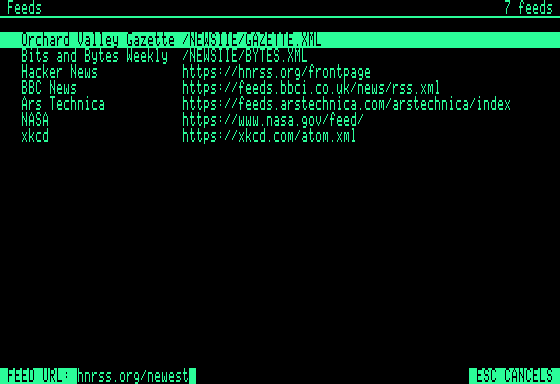
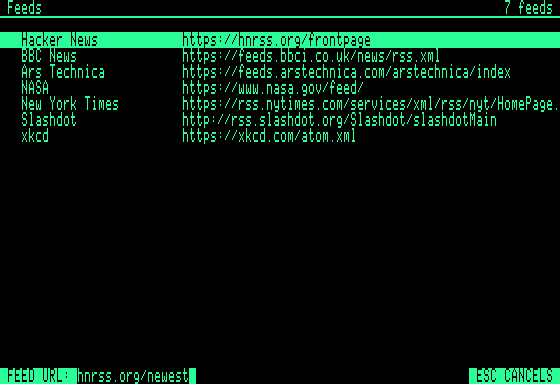
Show the shipped feed list in the manual's pictures
The screenshot disk now starts with the seven feeds the real disk
carries, so Figures 1-1 and 3-x match what a reader sees. For Chapter 2
the script adds the made-up Orchard Valley Gazette with Open-Apple-A,
and the manual says that feed isn't on the disk. The unused Bits and
Bytes Weekly feed is gone.

Changed region(s): [[0.1214, 0.0625, 1.0, 0.3438], [0.0304, 0.0938, 0.2125, 0.3438]]

diff --git a/docs/MANUAL.md b/docs/MANUAL.md
@@ -124,7 +124,9 @@ status bar until you press the next key.
 
 > **By the way:** The pictures in this guide were made on an Apple IIe
 > simulator without a CoGS card, so the address you see in them is just
-> an example. Yours will be different.
+> an example. Yours will be different. To show stories without the
+> Internet, the pictures in Chapter 2 use the *Orchard Valley Gazette*, a
+> made-up feed added to the list for the purpose. It isn't on your disk.
 
 ### Getting Help
 
@@ -156,8 +158,9 @@ take half a minute.
 
 ![Figure 2-1. newsiie fetching a feed](images/fetching.png)
 
-**Figure 2-1.** newsiie at work. This feed is on the disk, so the status
-bar says `READING`; a feed from the Internet says `FETCHING`.
+**Figure 2-1.** newsiie at work. The *Orchard Valley Gazette* was made up
+for this guide and kept on the disk, so the status bar says `READING`; a
+feed from the Internet says `FETCHING`.
 
 > **By the way:** If a feed is taking too long, press ESC. newsiie stops,
 > and you can read whatever has arrived so far.
@@ -289,8 +292,8 @@ as newsiie. You can change it with any text editor, such as ZipEdit. Each
 line holds one feed: its name, a bar ( | ), and its address.
 
 ```
-Orchard Valley Gazette|/NEWSIIE/GAZETTE.XML
 Hacker News|https://hnrss.org/frontpage
+NASA|https://www.nasa.gov/feed/
 https://xkcd.com/atom.xml
 ```
 
